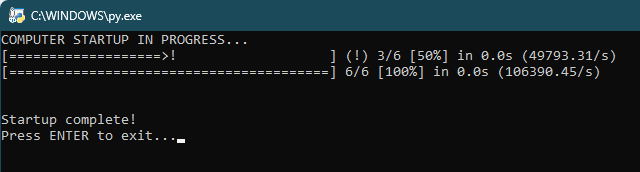
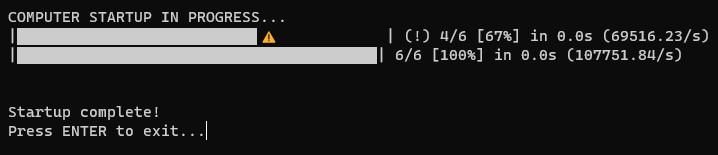
v1.2

diff --git a/startupComplete-desktop.py b/startupComplete-desktop.py
@@ -54,7 +54,7 @@ def get_load() -> int:
 
 def show_load():
     _idle_time = 0
-    with alive_bar(IDLE_TIME, theme="classic") as bar:
+    with alive_bar(IDLE_TIME) as bar:
         while _idle_time < IDLE_TIME:
             _load = get_load()
             if _load == "NoValueError":

diff --git a/startupComplete-laptop.py b/startupComplete-laptop.py
@@ -54,7 +54,7 @@ def get_load() -> int:
 
 def show_load():
     _idle_time = 0
-    with alive_bar(IDLE_TIME, theme="classic") as bar:
+    with alive_bar(IDLE_TIME) as bar:
         while _idle_time < IDLE_TIME:
             _load = get_load()
             if _load == "NoValueError":
